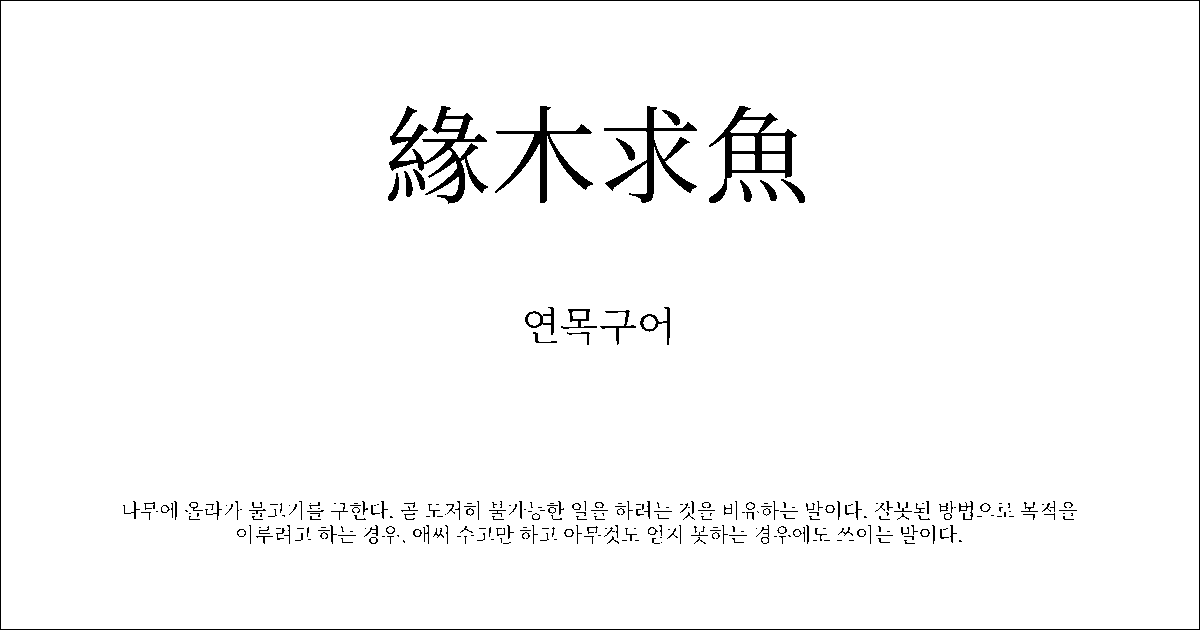
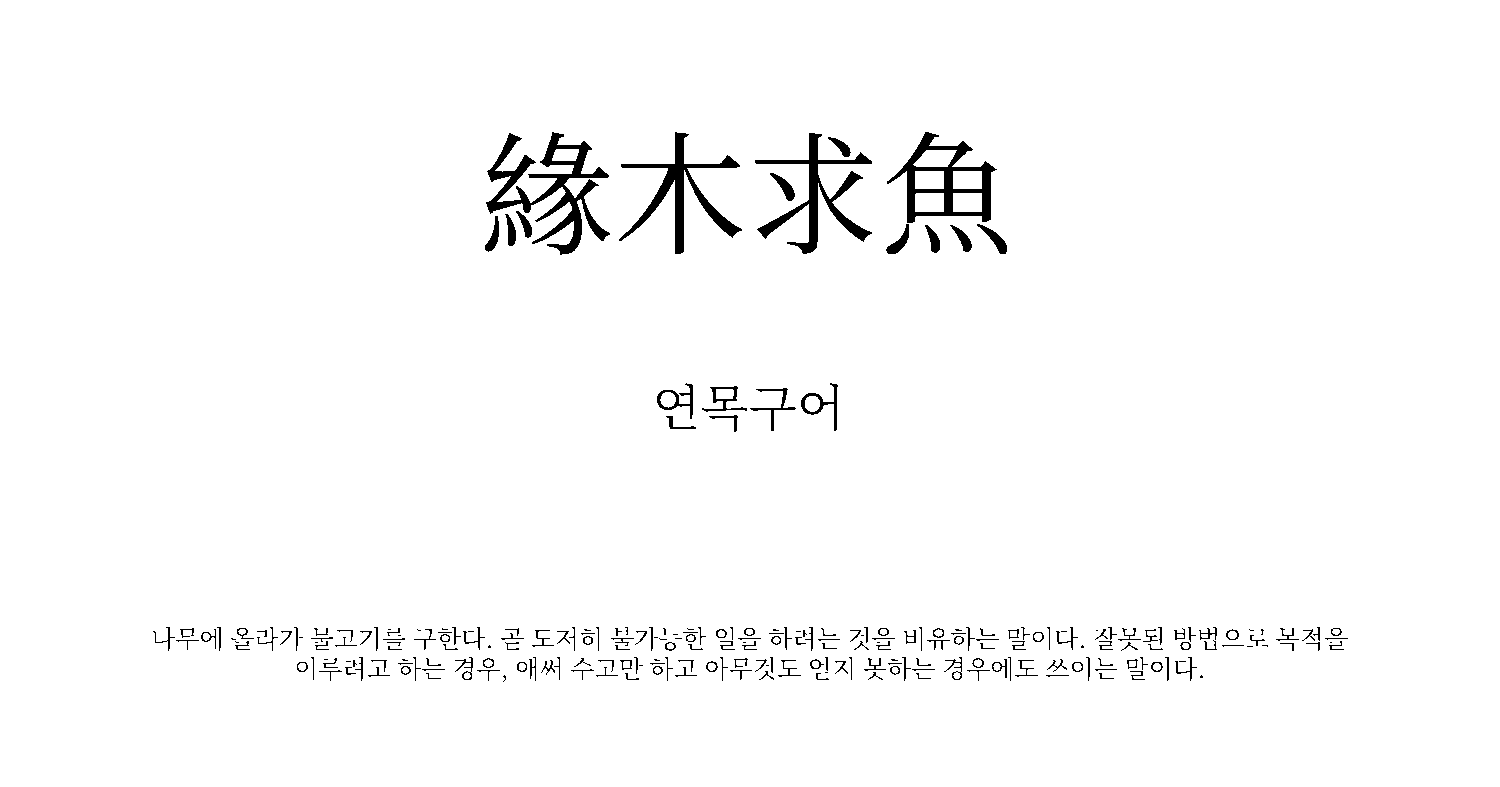
업데이트

diff --git a/docs/_posts/2023-03-15-緣木求魚.md b/docs/_posts/2023-03-15-緣木求魚.md
@@ -3,7 +3,7 @@ layout: post
 section: "2023년 3월 15일"
 title: "緣木求魚"
 subtitle: "나무에 올라가 물고기를 구한다. 곧 도저히 불가능한 일을 하려는 것을 비유하는 말이다. 잘못된 방법으로 목적을 이루려고 하는 경우, 애써 수고만 하고 아무것도 얻지 못하는 경우에도 쓰이는 말이다."
-cover: "/assets/images/%E7%B7%A3%E6%9C%A8%E6%B1%82%E9%AD%9A2.png"
+cover: "/assets/images/%E7%B7%A3%E6%9C%A8%E6%B1%82%E9%AD%9A.png"
 coverwidth: 1200
 coverheight: 630
 date: "2023-03-14 10:22:00"
